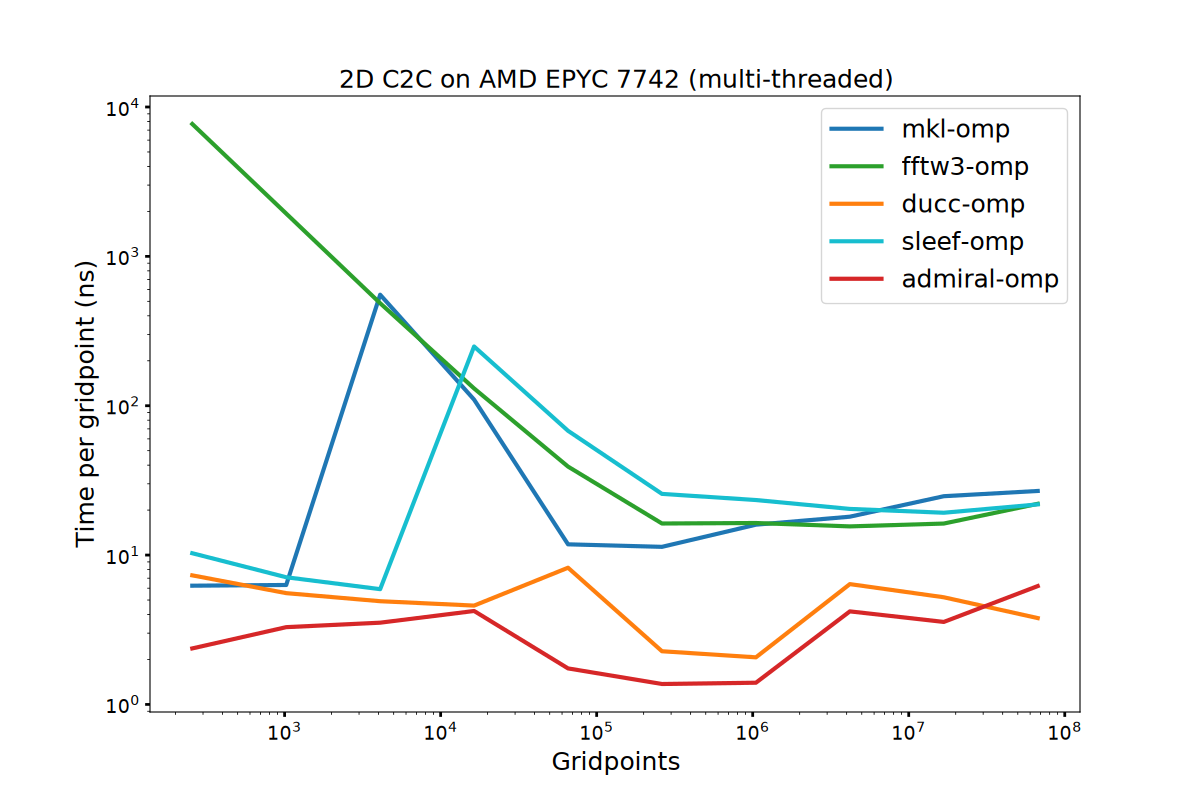
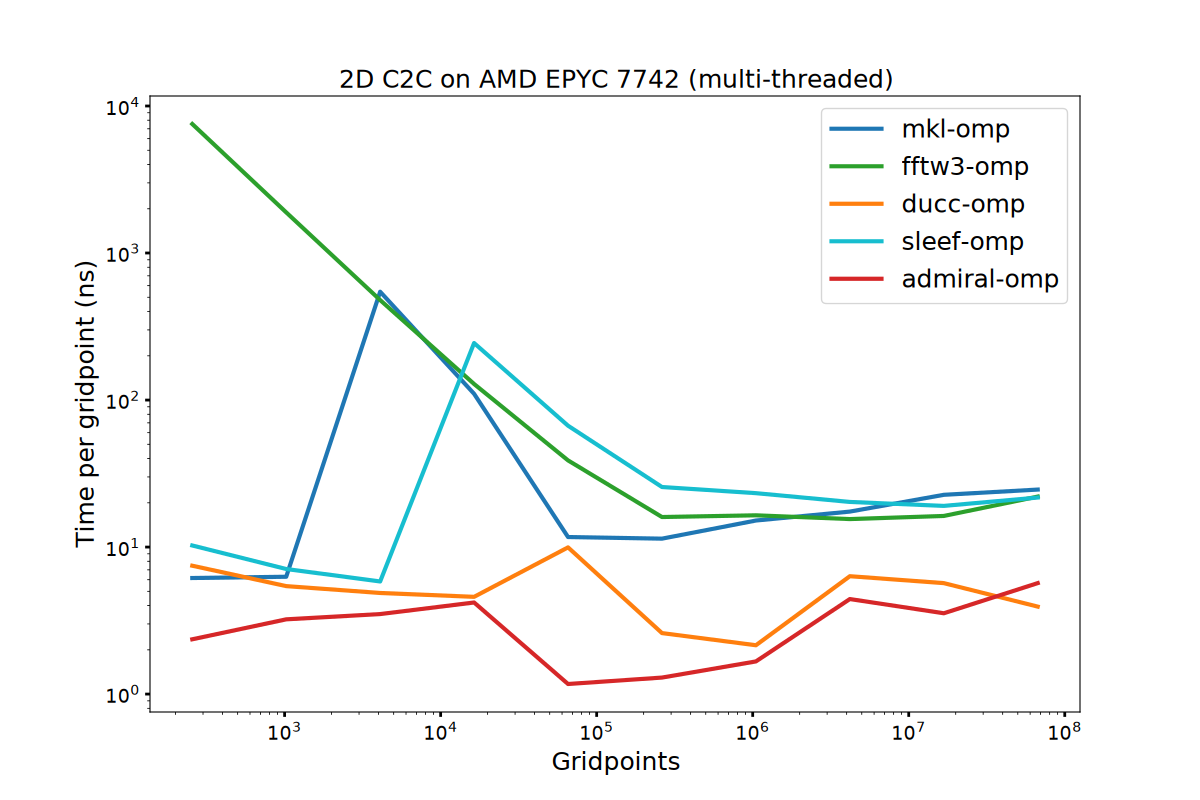
bench: bump admiral to 7739611 (12 MiB serial f64 line restore), refresh standings charts
Assisted-by: Claude

diff --git a/README.md b/README.md
@@ -3,7 +3,7 @@ FFTW3 run in FFTW_MEASURE mode. FFTW_PATIENT is death, and I wanted to give it a
 
 | MKL      | FFTW   | KISS             | Pocket   | DUCC              | Sleef         | Admiral |
 |----------|--------|------------------|----------|-------------------|---------------|---------|
-| 2026.0.0 | 3.3.11 | v131-101-ge5e3fac| 81d171a6 | 0.41.1-72-g9919ab6| 3.9.0-41-g7623d6c | a799b6b |
+| 2026.0.0 | 3.3.11 | v131-101-ge5e3fac| 81d171a6 | 0.41.1-72-g9919ab6| 3.9.0-41-g7623d6c | 7739611 |
 
 FFTW3, MKL and gcc come from the cluster's Lmod modules (`gcc/14.3.0 fftw/3.3.11 intel-oneapi-mkl/2026.0.0`); the module's FFTW3 carries the
 OpenMP threading library, which `fftw3_omp_bench` links. Machines: Intel Xeon Platinum 8362 (icelake), AMD EPYC 7742 (rome), AMD EPYC 9474F (genoa).
